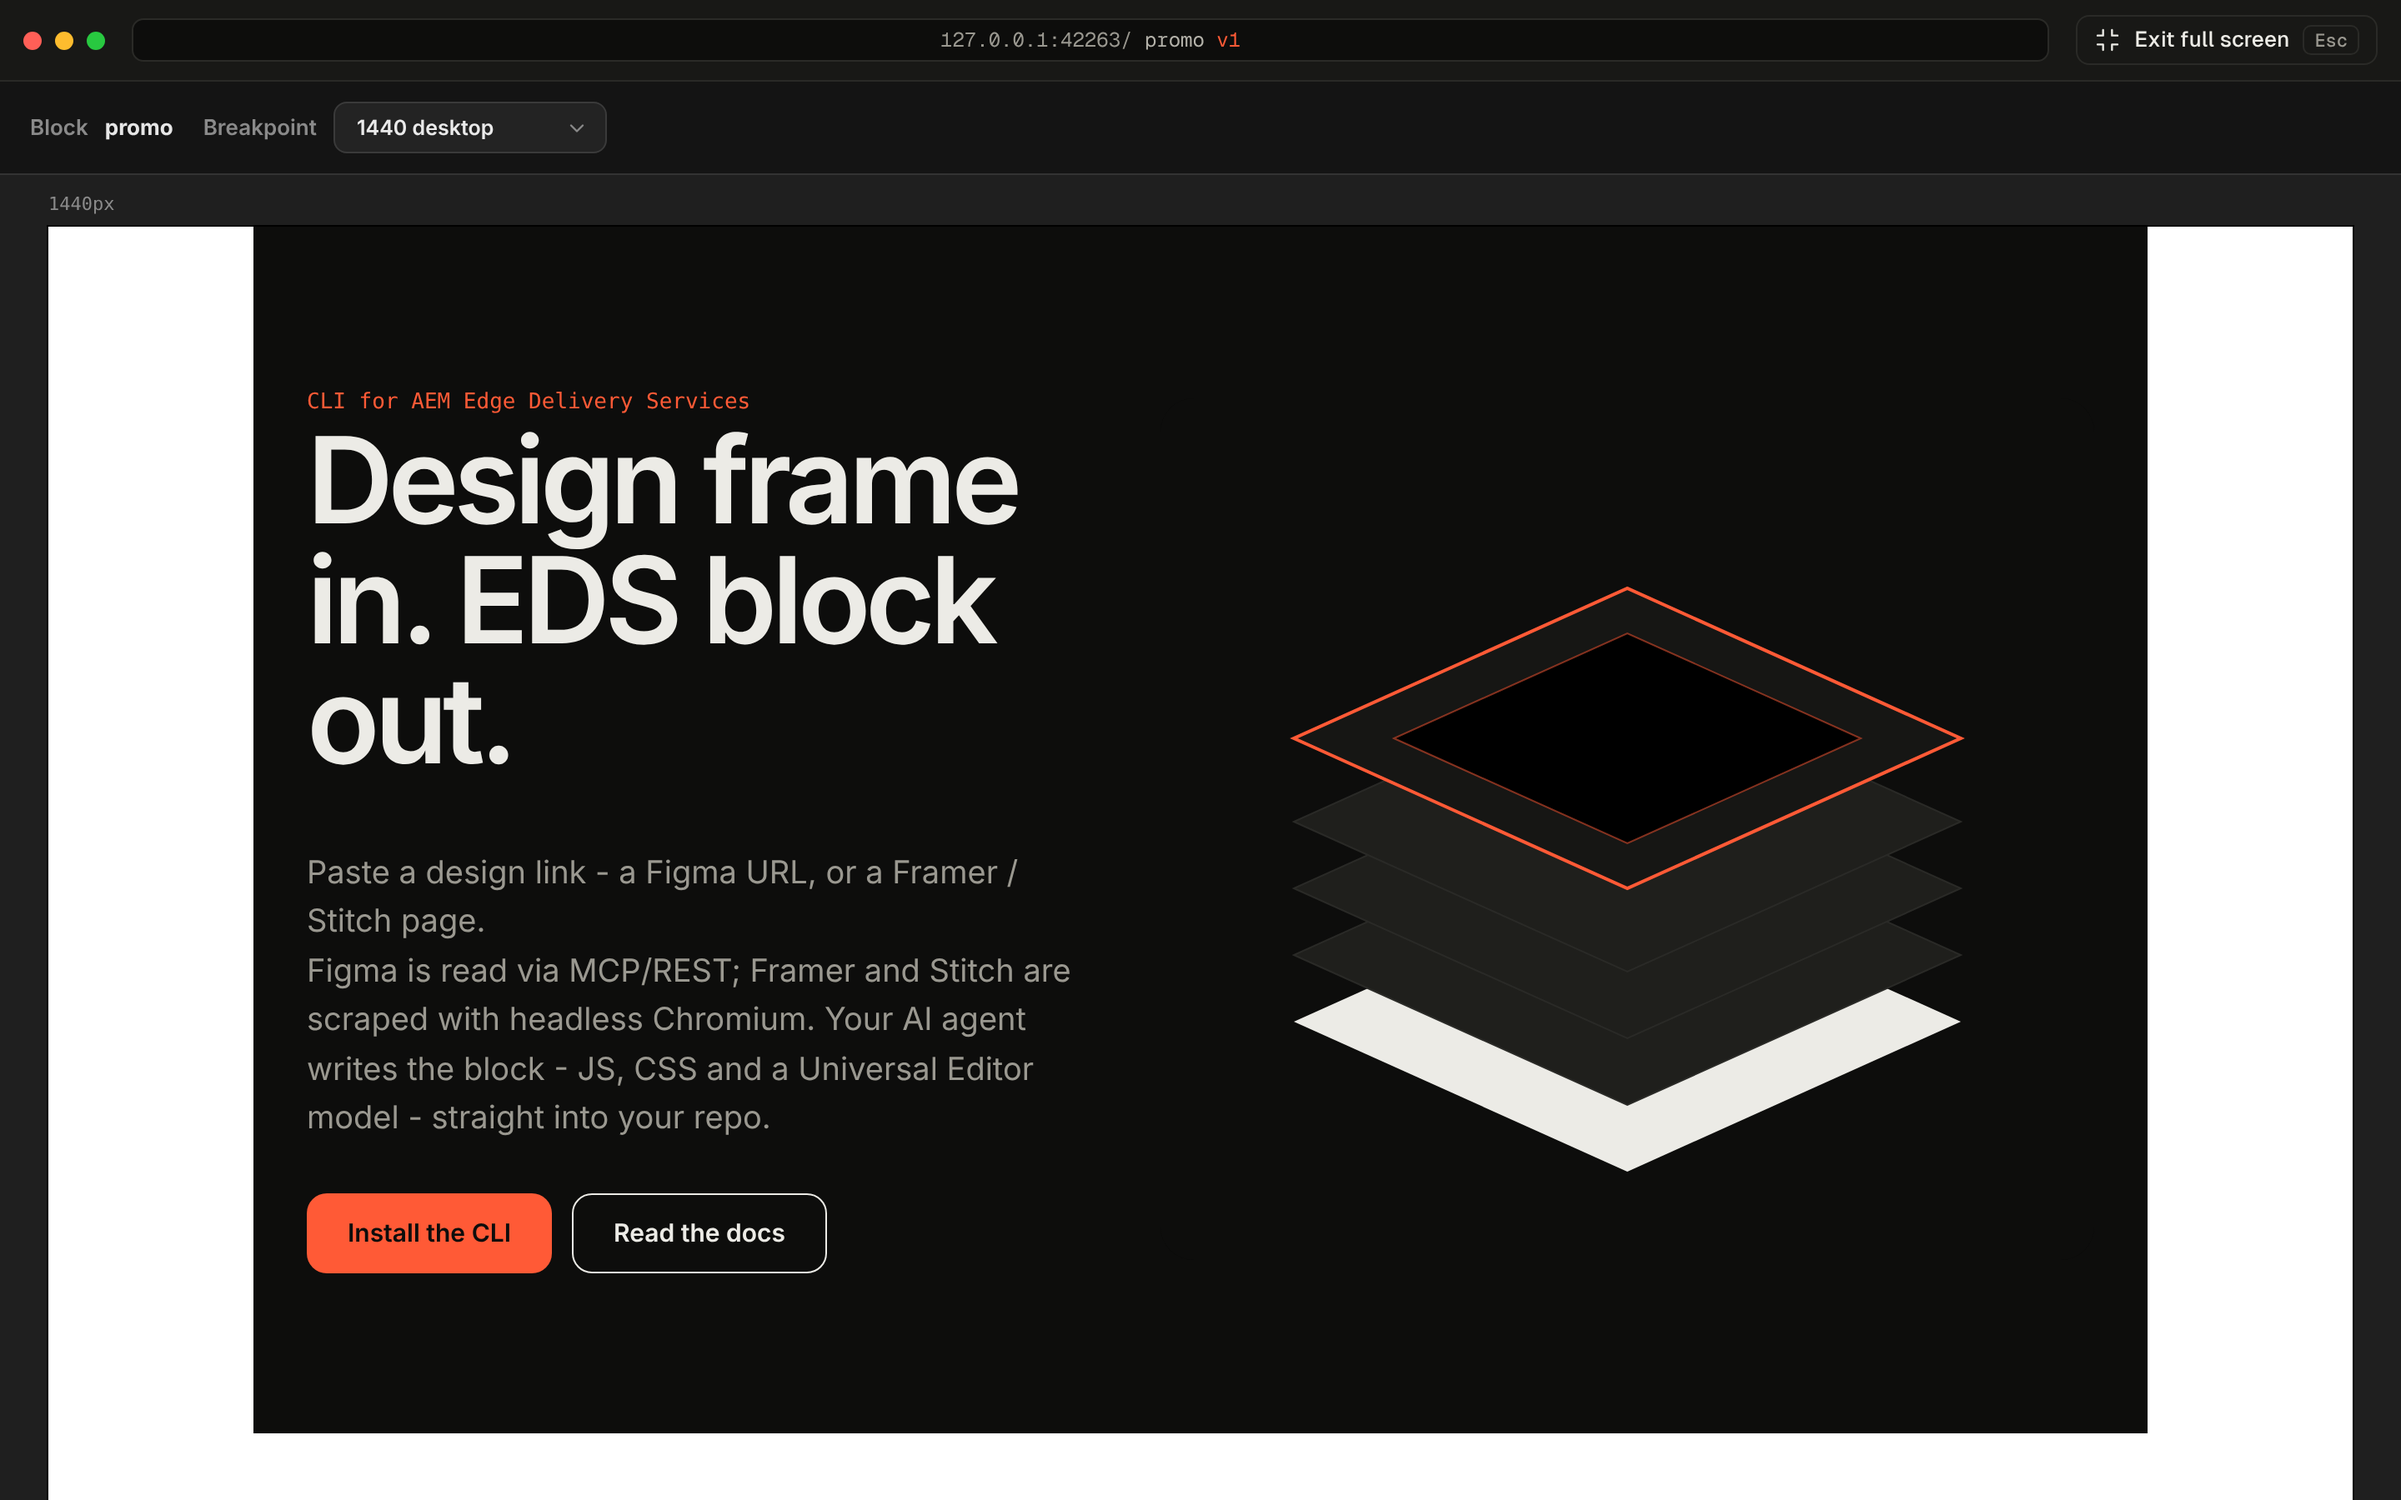
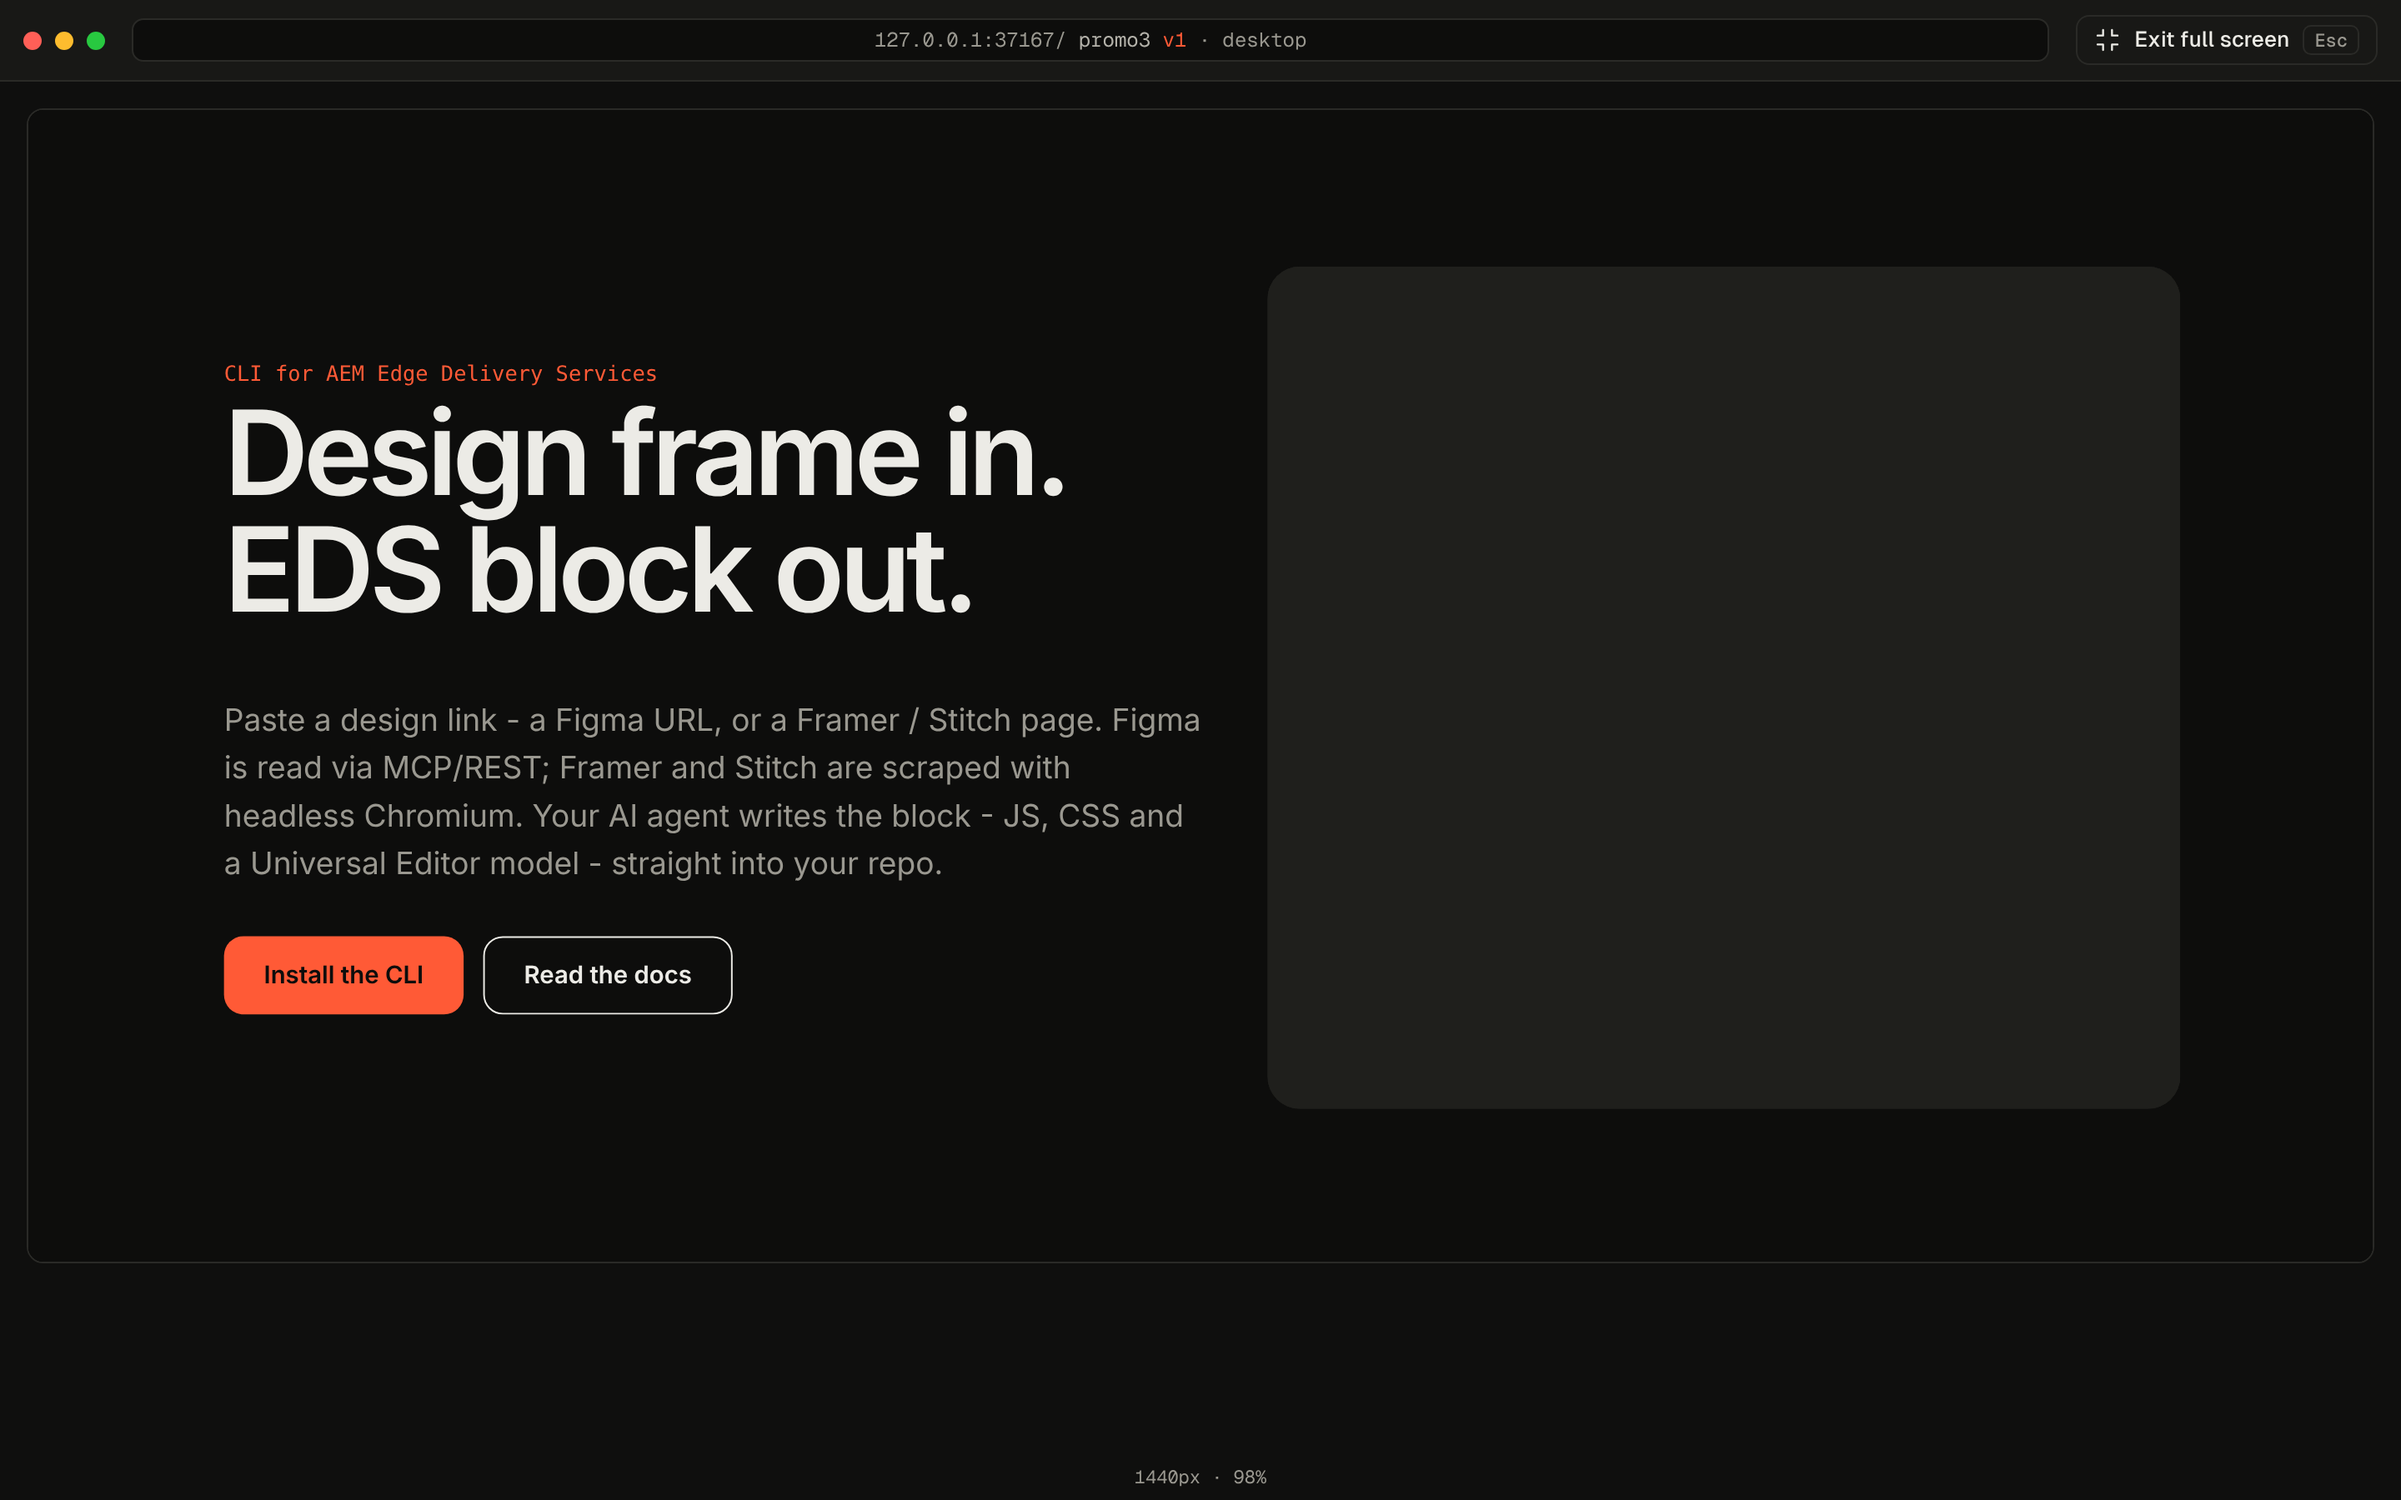
STUDIO-30: README for 0.3.0

diff --git a/README.md b/README.md
@@ -21,7 +21,7 @@
   <a href="https://www.npmjs.com/package/aem-eds-kit"><img alt="Engine: aem-eds-kit" src="https://img.shields.io/npm/v/aem-eds-kit?label=engine%20aem-eds-kit&color=1d1d1a"></a>
 </p>
 
-![A draft under review: the preview fills the window, versions as tabs, request changes and accept in the side panel](docs/assets/review.png)
+![A draft under review: the preview fills the window, versions as tabs, device switch, request changes and accept in the side panel](docs/assets/review.png)
 
 ## How it works
 
@@ -31,8 +31,16 @@ Nothing reaches the repository until someone accepts it.
 |---|---|
 | **1. Add a project**<br>A GitHub repository (cloned for you) or an Edge Delivery folder on your disk, chosen in the system's folder picker. | ![Projects](docs/assets/projects.png) |
 | **2. New block from a design**<br>Paste a Figma, Framer, Stitch or any page link, name the block, pick the agent and model. The log shows each step and what it cost. | ![New block](docs/assets/new-block.png) |
-| **3. Review**<br>The preview fills the window, with tabs for the versions. *Request changes* sends a comment, and the agent makes the next version. | ![Review](docs/assets/review.png) |
+| **3. Review on every device**<br>The preview fills the window, with tabs for the versions and *Desktop / Tablet / Mobile*. The review panel folds away. *Request changes* sends a comment, and the agent makes the next version. | ![Devices](docs/assets/devices.png) |
 | **4. Full screen, then accept**<br>Check it full screen or in your browser. *Accept* commits only `blocks/<name>/` on a branch, with the review rounds in the commit message. *Discard* drops the draft. | ![Full screen](docs/assets/full-screen.png) |
+| **5. Work board**<br>The project's GitHub issues and pull requests by who acts next: prepared, in progress, dev review, QA (with the PR's screenshot), done. Filter by developer, QA or manager. | ![Work board](docs/assets/board.png) |
+
+### Also in the app
+
+- **Several projects at once.** Different blocks and projects generate in parallel; work on the same block queues. The header lists every running and queued job.
+- **Project settings import and export.** A `.studio.json` file (repository, default agent and model, no secrets) to share a setup with the team.
+- **In-app updates.** See [Install](#install).
+- **Connect GitHub** from the header, with a code you confirm on github.com (see below).
 
 ## Install
 
@@ -50,7 +58,7 @@ Nothing reaches the repository until someone accepts it.
 **You don't need**
 - Node. The app has its own runtime and the [aem-eds-kit](https://www.npmjs.com/package/aem-eds-kit) engine inside.
 
-For GitHub projects, click **Connect GitHub** in the header: the app shows a code, you confirm it on github.com, and the token goes to your system keychain. `gh auth login` and `GITHUB_TOKEN` work too. The token never leaves your machine.
+**GitHub projects.** Sign in with `gh auth login` or set `GITHUB_TOKEN`. The token never leaves your machine. *Connect GitHub* in the header (the app shows a code, you confirm it on github.com, the token goes to your system keychain) switches on once the app's GitHub sign-in is registered.
 
 ## Who it's for
 
@@ -85,9 +93,10 @@ npm run desktop            # build and open the app
 
 ## Roadmap
 
-- **Done:** projects, drafts with review rounds, accept onto a branch, desktop app with in-app updates.
+- **Done (0.3.0):** projects, drafts with review rounds on three devices, accept onto a branch, work board, several projects at once, settings import/export, in-app updates.
 - **Next:**
-  - a pull request after accept;
+  - a first-run tutorial;
+  - a pull request after accept, with the three device screenshots for QA;
   - Claude through the API (no local agent needed);
   - MCP servers per project (AEM, Figma);
   - roles;

diff --git a/CHANGELOG.md b/CHANGELOG.md
@@ -38,7 +38,7 @@ in the app.
 - **aem-eds-kit 0.4.62** (STUDIO-22) is bundled and required: it reports the
   preview's height, which the device frames size to, and puts block
   backgrounds on the section, so no white areas around blocks.
-- **README** (STUDIO-13): logo, download buttons, the flow in screenshots,
+- **README** (STUDIO-13, STUDIO-30): logo, download buttons, the flow in screenshots (devices, work board),
   shorter sections.
 
 ## [0.2.0] - 2026-11-06
